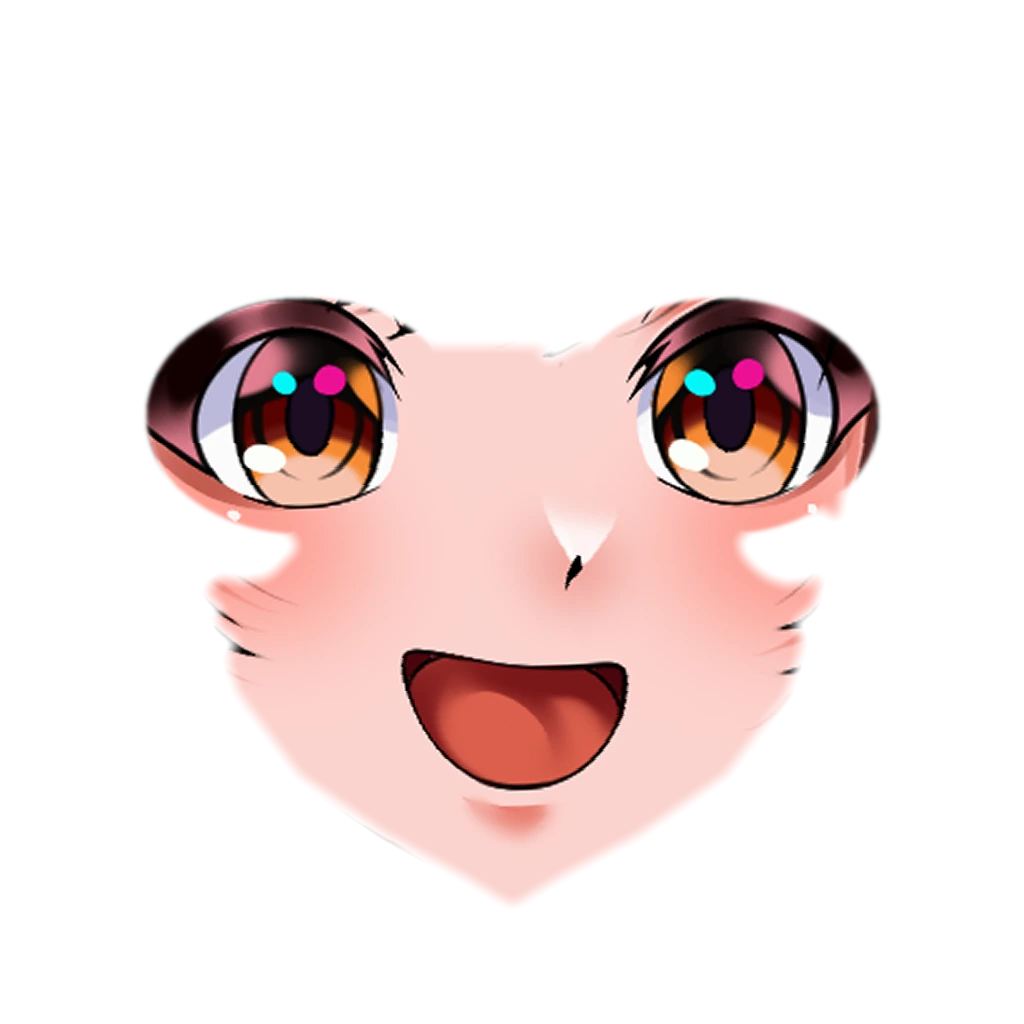
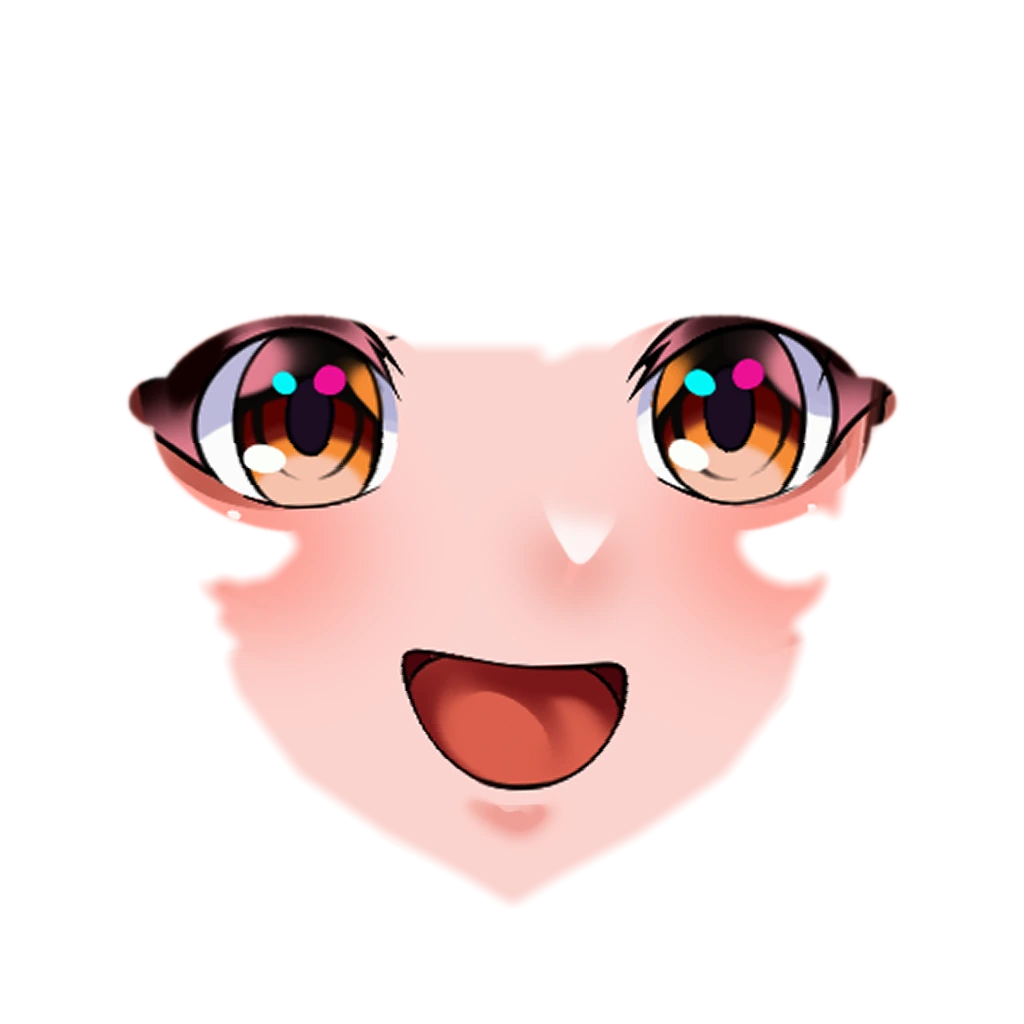
Peachi: sheet-style bangs, flatter face, neck, cleaner face art
- Bangs rebuilt as layered pointed locks (dense middle meeting between the
  eyes, side sweeps to the temples, small forehead gaps as on the sheet),
  laid out in face coordinates; tips warm toward the skin
- Face front is a superellipse, flat across the eyes, so the drawn eyes
  no longer smear when the head turns; face 4 mm wider at the eye line
- Head lifted 1.4 cm on the neck and chin brought forward: a bit of neck
  now shows above the choker
- Brows measured from the sheet for each expression, drawn on the face
  and on the see-through overlay (visible over the bangs)
- Face art: cheeks keep only smooth skin/blush (median-cleaned), the
  mouth is found as a blob, eye regions stop above the lashes
- Darker, redder hair palette with more contrast between locks; the angel
  ring is narrower, in the hair's own color and broken per strand
- Removed the plates on the headband

Claude-Session: https://claude.ai/code/session_01P9rxu2bForWsXzXEpVGezr

diff --git a/js/peachi/model.js b/js/peachi/model.js
@@ -19,8 +19,8 @@ const C = {
   skin: SKIN_ART, navel: 0xde9a92, white: 0xfbf8fd, lav: 0xece6fb, pink: 0xff8cbf, pinkDeep: 0xef5f9f,
   pinkPale: 0xffd0e4, coral: 0xf2566f, ink: 0x221f30, inkSoft: 0x2e2a42, gold: 0xebbd52, sock: 0x221f2d,
 };
-const HAIR = ['#431c15', '#5f261d', '#833226', '#b84b5a', '#e8718f', '#f59cba'].map((c) => new THREE.Color(c));
-const _hc = new THREE.Color(), _ring = new THREE.Color('#9b5a4a');
+const HAIR = ['#2e1412', '#6e312c', '#8e3f39', '#b84b5a', '#e8718f', '#f59cba'].map((c) => new THREE.Color(c));
+const _hc = new THREE.Color(), _ring = new THREE.Color('#9b5a4a'), BANG_TIP = new THREE.Color('#c26a60');
 
 /** Hair color by height (the sheet's gradient is dark brown at the crown → pink below the chest). */
 function hairColorAt(y, out, ring = 0) {
@@ -41,7 +41,10 @@ const HC = V(0, 1.485, 0.008);                 // cranium center
 const SHOULDER = V(0.118, 1.292, -0.01);
 const HIP_J = V(0.07, 0.865, 0);
 const UPPER = 0.255, FORE = 0.225, THIGH = 0.36, SHIN = 0.41;
-export const FACE_HEIGHT = 1.425;
+// The head (and everything on it) is authored at the heights below and then lifted this much on the neck,
+// so a bit of neck shows between the chin and the choker as on the sheet.
+const NECK_LIFT = 0.014;
+export const FACE_HEIGHT = 1.425 + NECK_LIFT;
 
 // ---------------------------------------------------------------- body shapes
 const TORSO = [
@@ -85,19 +88,20 @@ function jacketPoint(th, y, off, out) {
 }
 
 // Anime head built from horizontal rings (world Y), tuned to the sheet's face measured in eye spacings
-// E (0.069 m): face half-width 0.91E at the eyes, 0.76E at the cheeks, 0.63E at the mouth, 0.31E just
+// E (0.069 m): face half-width 0.96E at the eyes, 0.8E at the cheeks, 0.63E at the mouth, 0.31E just
 // below it, then a short rounded chin 1.18E under the eye line (a U/V-line jaw, not a long triangle).
 // Wf = half-width of the face (front half), Wb = half-width of the skull behind it (hidden by hair/cups),
 // zF / zB = frontmost / rearmost z of the ring.
 const HEAD_RINGS = [
-  { k: 1.3635, Wf: 0.0, Wb: 0.0, zF: 0.052, zB: 0.04 },
-  { k: 1.369, Wf: 0.009, Wb: 0.012, zF: 0.061, zB: 0.022 },
-  { k: 1.376, Wf: 0.022, Wb: 0.028, zF: 0.069, zB: -0.004 },
-  { k: 1.386, Wf: 0.0365, Wb: 0.045, zF: 0.077, zB: -0.034 },
+  { k: 1.3635, Wf: 0.0, Wb: 0.0, zF: 0.057, zB: 0.04 },
+  { k: 1.369, Wf: 0.009, Wb: 0.012, zF: 0.065, zB: 0.022 },
+  { k: 1.376, Wf: 0.022, Wb: 0.028, zF: 0.072, zB: -0.004 },
+  { k: 1.386, Wf: 0.0365, Wb: 0.045, zF: 0.079, zB: -0.034 },
   { k: 1.4, Wf: 0.047, Wb: 0.057, zF: 0.083, zB: -0.058 },
   { k: 1.41, Wf: 0.05, Wb: 0.063, zF: 0.085, zB: -0.07 },
-  { k: 1.422, Wf: 0.0535, Wb: 0.068, zF: 0.087, zB: -0.08 },
-  { k: 1.447, Wf: 0.062, Wb: 0.076, zF: 0.089, zB: -0.092 },
+  { k: 1.422, Wf: 0.055, Wb: 0.068, zF: 0.087, zB: -0.08 },
+  { k: 1.435, Wf: 0.0605, Wb: 0.072, zF: 0.088, zB: -0.086 },
+  { k: 1.447, Wf: 0.066, Wb: 0.076, zF: 0.089, zB: -0.092 },
   { k: 1.475, Wf: 0.069, Wb: 0.079, zF: 0.089, zB: -0.098 },
   { k: 1.505, Wf: 0.073, Wb: 0.079, zF: 0.086, zB: -0.098 },
   { k: 1.535, Wf: 0.069, Wb: 0.074, zF: 0.077, zB: -0.09 },
@@ -115,9 +119,12 @@ function headPoint(u, v, o) {
   const R = tableLerp(HEAD_RINGS, y, _hr);
   const s = Math.sin(th), c = Math.cos(th);
   const W = lerp(R.Wb, R.Wf, smooth(-0.35, 0.35, c));
-  const x = W * s;
-  // flat anime face plane in front, round skull behind
-  let z = c >= 0 ? R.zF * c * (1 + 0.35 * (1 - c)) : -R.zB * c;
+  // Front half: a superellipse, flat across the eyes and turning at the cheeks (a round front puts the
+  // outer eye corners on a surface facing sideways and the drawn eyes smear as the head turns).
+  // Rounder at the chin and over the crown; the skull behind stays elliptical.
+  const e = c >= 0 ? lerp(lerp(0.85, 0.55, smooth(1.366, 1.395, y)) - 0.12 * Math.exp(-(((y - 1.452) / 0.02) ** 2)), 0.85, smooth(1.5, 1.565, y)) : 1;
+  const x = W * Math.sign(s) * Math.pow(Math.abs(s), e);
+  let z = c >= 0 ? R.zF * Math.pow(c, e) : -R.zB * c;
   z += 0.006 * Math.exp(-((x / 0.0065) ** 2)) * Math.exp(-(((y - 1.428) / 0.011) ** 2)) * smooth(0.8, 1, c); // small nose
   return o.set(x, y, z + HC.z);
 }
@@ -126,6 +133,17 @@ function headAt(az, pol, off, out = V()) {
   headPoint(0.5 + az / TAU, pol / PI, out);
   _hd.copy(out).sub(HC).normalize();
   return out.addScaledVector(_hd, off);
+}
+// point on the front of the head at world height y with the given x (bangs are laid out on the face this way)
+function headAtXY(x, y, off, out = V()) {
+  const v = y >= HC.y ? Math.acos(Math.min(1, (y - HC.y) / 0.1)) / PI : 0.5 + Math.asin(Math.min(1, (HC.y - y) / (HC.y - 1.3635))) / PI;
+  let lo = -PI / 2, hi = PI / 2;
+  for (let i = 0; i < 30; i++) {
+    const m = (lo + hi) / 2;
+    headPoint(0.5 + m / TAU, v, out);
+    if (out.x < x) lo = m; else hi = m;
+  }
+  return headAt((lo + hi) / 2, v * PI, off, out);
 }
 const _o1 = V(), _o2 = V();
 function hairOutward(t, p, out) {
@@ -175,12 +193,6 @@ function buildHeadphones(add, atlas) {
   }, 12, 44, { color });
   add('solid', band(0.0, 0.012, 0.0125, C.pink));
   add('solid', band(-0.007, 0.001, 0.0095, C.lav), { outline: 0.6 });
-  // pink segment ridges on the band (the sheet's band is built from plates)
-  for (const a of [-1.2, -0.95, 0.95, 1.2]) {
-    const g = new THREE.BoxGeometry(0.02, 0.006, 0.028);
-    place(g, arc(a, 0.012, V()).toArray(), [0, 0, -a]);
-    add('solid', g, { color: C.pinkDeep, outline: 0.5 });
-  }
   for (const s of [-1, 1]) {
     // slider + yoke
     add('solid', extrude(roundRectShape(0.016, 0.03, 0.005), 0.022, 0.004), { pos: [s * 0.104, -0.002, zB], color: C.pink });
@@ -268,6 +280,7 @@ export function buildPeachi({ ghost = true } = {}) {
   const hips = joint(root, HIPS_O);
   const torso = joint(root, TORSO_O);
   const head = joint(torso, HEAD_O);
+  head.position.y += NECK_LIFT;
 
   const bin = new PartBin();
   const W = (grp, key, geo, opts = {}) => {
@@ -311,13 +324,13 @@ export function buildPeachi({ ghost = true } = {}) {
     W(head, 'hair', g, { outline: 1 });
   }
   let hairSeed = 3;
-  const hairPiece = (pts, { w, d = 0.006, amp = 0.01, phase = 0, curl = 0.3, nv = 14, nu = 6, ringY = 1.545, shape = 'bang' }) => {
+  const hairPiece = (pts, { w, d = 0.006, amp = 0.01, phase = 0, curl = 0.3, nv = 14, nu = 6, ringY = 1.545, shape = 'lock', tip = 0 }) => {
     hairSeed = (hairSeed * 16807) % 2147483647;
-    const tone = 0.92 + 0.14 * (hairSeed / 2147483647);
+    const tone = 0.86 + 0.2 * (hairSeed / 2147483647);
     const path = new THREE.CatmullRomCurve3(pts, false, 'centripetal');
-    // w is the half-width. 'front' locks stay slim beside the face and fan out over the shoulders/chest.
-    const width = shape === 'bang'
-      ? (t) => w * (0.82 + 0.3 * t) * Math.pow(1 - Math.pow(t, 5), 0.85)
+    // w is the half-width. 'point' = bang lock with a sharp tip; 'front' locks stay slim beside the face and fan out over the shoulders/chest.
+    const width = shape === 'point'
+      ? (t) => w * (0.75 + 0.25 * smooth(0, 0.3, t)) * Math.pow(1 - smooth(0.45, 1, t), 0.7)
       : shape === 'front'
         ? (t) => w * (0.24 + 0.9 * smooth(0.34, 0.66, t)) * (1 - Math.pow(t, 3.2))
         : (t) => w * (0.62 + 0.55 * Math.sin(PI * Math.min(1, t * 1.15)) ** 0.6) * (1 - Math.pow(t, 3.2));
@@ -326,42 +339,58 @@ export function buildPeachi({ ghost = true } = {}) {
       color: (u, v, p, c) => {
         const ph = u * TAU, cw = Math.abs(Math.cos(ph)), sn = Math.sin(ph);
         hairColorAt(p.y, c, 0.45 * Math.exp(-(((p.y - ringY) / 0.009) ** 2)));
-        return c.multiplyScalar(tone * (1 - 0.3 * cw * cw * cw) * (sn < 0 ? 0.78 : 1));
+        if (tip) c.lerp(BANG_TIP, tip * smooth(0.4, 1, v)); // bang tips warm up toward the skin, as painted
+        return c.multiplyScalar(tone * (1 - 0.42 * cw * cw * cw * cw) * (sn < 0 ? 0.72 : 1));
       },
       sway: (u, v) => [amp * Math.pow(v, 1.7), phase],
     });
     W(head, 'hair', g, { outline: 1 });
   };
-  // ---- bangs [azimuth°, end polar (×π), width]: heavy, cut at the brows, one lock between the eyes
-  { // under-layer so no forehead shows between the locks
+  // ---- bangs, cut like the sheet: pointed locks of uneven length from a part just off the middle.
+  // The middle ones meet between the eyes, the sides sweep out to the temples, and a little forehead
+  // (with the brows, see face.js) shows through a gap on each side.
+  { // under-layer: fills the roots so no scalp shows between the locks; short over the two gaps
+    const endAt = (deg) => 0.365 + 0.115 * Math.exp(-(((deg - 3) / 11) ** 2)) + 0.19 * smooth(52, 80, Math.abs(deg));
     const g = surface((u, v, o) => {
-      const az = lerp(-78, 78, u) * DEG;
-      headAt(az, lerp(0.16, 0.5 + 0.08 * Math.pow(Math.abs(u - 0.5) * 2, 2), v) * PI, 0.0075, o);
-    }, 16, 6, { flip: true, color: (u, v, p, c) => hairColorAt(p.y, c).multiplyScalar(0.8) });
+      const deg = lerp(-84, 84, u);
+      headAt(deg * DEG, lerp(0.16, endAt(deg), v) * PI, 0.0072, o);
+    }, 28, 6, { flip: true, color: (u, v, p, c) => hairColorAt(p.y, c).multiplyScalar(0.55) });
     W(head, 'hair', g, { outline: 0 });
   }
-  const BANGS = [[-74, 0.73, 0.013], [-61, 0.61, 0.022], [-47, 0.56, 0.034], [-34, 0.54, 0.034], [-22, 0.548, 0.034], [-10, 0.535, 0.034],
-    [2, 0.59, 0.012], [12, 0.535, 0.034], [25, 0.546, 0.034], [37, 0.536, 0.034], [49, 0.553, 0.034], [61, 0.61, 0.022], [74, 0.73, 0.013]];
-  BANGS.forEach(([deg, end, w], i) => {
-    const az = deg * DEG, off = i % 2 ? 0.0135 : 0.0115;
-    hairPiece([
-      headAt(az * 0.3, 0.05 * PI, off), headAt(az * 0.72, 0.22 * PI, off + 0.004), headAt(az * 0.94, 0.4 * PI, off + 0.005),
-      headAt(az, (end - 0.07) * PI, off + 0.001), headAt(az * 1.03, end * PI, off - 0.004),
-    ], { w, d: 0.0065, amp: 0.004, phase: i * 1.3, curl: 0.3 });
+  // [half width, offset from the skin, root [azimuth°, polar ×π], then [x, y] over the forehead]; later ones lie on top
+  const BANGS = [
+    [0.02, 0.0095, [0, 0.05], [[-0.02, 1.567], [-0.05, 1.545], [-0.068, 1.51], [-0.074, 1.478], [-0.073, 1.45]]],   // outer sweeps
+    [0.02, 0.0095, [18, 0.05], [[0.034, 1.567], [0.058, 1.545], [0.07, 1.51], [0.075, 1.478], [0.073, 1.45]]],
+    [0.018, 0.0105, [6, 0.06], [[-0.006, 1.56], [-0.028, 1.538], [-0.048, 1.508], [-0.06, 1.482], [-0.064, 1.458]]], // inner sweeps
+    [0.018, 0.0105, [14, 0.06], [[0.02, 1.56], [0.036, 1.538], [0.053, 1.508], [0.063, 1.482], [0.066, 1.458]]],
+    [0.016, 0.0115, [4, 0.07], [[-0.006, 1.555], [-0.012, 1.525], [-0.02, 1.495], [-0.029, 1.472]]],               // middle, tips fanning out
+    [0.016, 0.0115, [15, 0.07], [[0.014, 1.555], [0.019, 1.525], [0.024, 1.498], [0.03, 1.477]]],
+    [0.017, 0.012, [7, 0.07], [[-0.002, 1.555], [-0.006, 1.52], [-0.009, 1.49], [-0.013, 1.465]]],
+    [0.016, 0.012, [12, 0.07], [[0.011, 1.555], [0.012, 1.52], [0.013, 1.495], [0.015, 1.47]]],
+    [0.018, 0.0125, [9, 0.07], [[0.005, 1.555], [0.003, 1.52], [0.0, 1.49], [0.001, 1.457]]],
+    [0.006, 0.013, [0, 0.2], [[-0.022, 1.535], [-0.035, 1.505], [-0.041, 1.485], [-0.044, 1.465]]],                       // loose strands
+    [0.006, 0.0125, [-40, 0.28], [[-0.05, 1.53], [-0.06, 1.5], [-0.066, 1.47], [-0.068, 1.44]]],
+    [0.006, 0.0125, [40, 0.28], [[0.05, 1.53], [0.06, 1.5], [0.066, 1.47], [0.068, 1.44]]],
+  ];
+  BANGS.forEach(([w, off, [rDeg, rPol], path], i) => {
+    const n = path.length;
+    const pts = [headAt(rDeg * DEG, rPol * PI, off)];
+    path.forEach(([x, y], j) => pts.push(headAtXY(x, y, off + 0.002 * Math.sin(PI * (j + 1) / n) - (j === n - 1 ? 0.003 : 0))));
+    hairPiece(pts, { w, d: w < 0.008 ? 0.003 : 0.005, amp: 0.003, phase: i * 1.3, curl: 0.25, nv: 16, shape: 'point', tip: 0.55 });
   });
   // ---- front hair: locks tucked under the headphone cups that come out below them and fall
   // in front of the shoulders, over the collar and the upper sleeves (the face stays clear from the side)
   for (const s of [-1, 1]) {
     // inner lock over the chest
     hairPiece([
-      headAt(s * 52 * DEG, 0.2 * PI, 0.014), headAt(s * 62 * DEG, 0.44 * PI, 0.02), V(s * 0.071, 1.45, 0.03),
-      V(s * 0.074, 1.4, 0.028), V(s * 0.077, 1.36, 0.036), V(s * 0.084, 1.31, 0.047), V(s * 0.1, 1.265, 0.05), V(s * 0.086, 1.205, 0.058),
+      headAt(s * 52 * DEG, 0.2 * PI, 0.014), headAt(s * 62 * DEG, 0.44 * PI, 0.02), V(s * 0.077, 1.45, 0.03),
+      V(s * 0.077, 1.4, 0.028), V(s * 0.077, 1.36, 0.036), V(s * 0.084, 1.31, 0.047), V(s * 0.1, 1.265, 0.05), V(s * 0.086, 1.205, 0.058),
       V(s * 0.104, 1.15, 0.058), V(s * 0.126, 1.105, 0.052), V(s * 0.14, 1.08, 0.046),
     ], { w: 0.034, d: 0.012, amp: 0.012, phase: s * 2.1, curl: 0.25, nv: 26, shape: 'front' });
     // wide lock over the shoulder front and the upper sleeve, curling outward
     hairPiece([
-      headAt(s * 72 * DEG, 0.17 * PI, 0.013), headAt(s * 80 * DEG, 0.42 * PI, 0.024), V(s * 0.078, 1.43, 0.006),
-      V(s * 0.088, 1.37, 0.02), V(s * 0.124, 1.315, 0.042), V(s * 0.158, 1.26, 0.062), V(s * 0.16, 1.2, 0.074),
+      headAt(s * 72 * DEG, 0.17 * PI, 0.013), headAt(s * 80 * DEG, 0.42 * PI, 0.024), V(s * 0.083, 1.43, 0.006),
+      V(s * 0.089, 1.37, 0.02), V(s * 0.124, 1.315, 0.042), V(s * 0.158, 1.26, 0.062), V(s * 0.16, 1.2, 0.074),
       V(s * 0.184, 1.15, 0.078), V(s * 0.21, 1.11, 0.074), V(s * 0.234, 1.085, 0.064), V(s * 0.25, 1.07, 0.056),
     ], { w: 0.044, d: 0.015, amp: 0.016, phase: s * 3.3, curl: 0.22, nu: 8, nv: 26, shape: 'front' });
     // outer lock: behind the cup, then spilling over the shoulder in an S-wave
@@ -372,8 +401,8 @@ export function buildPeachi({ ghost = true } = {}) {
     ], { w: 0.042, d: 0.014, amp: 0.018, phase: s * 4.1, curl: 0.22, nu: 8, nv: 24, shape: 'front' });
     // a thinner wisp between them for a layered edge
     hairPiece([
-      headAt(s * 64 * DEG, 0.24 * PI, 0.015), headAt(s * 70 * DEG, 0.48 * PI, 0.022), V(s * 0.074, 1.43, 0.018),
-      V(s * 0.08, 1.37, 0.03), V(s * 0.1, 1.3, 0.05), V(s * 0.12, 1.235, 0.062), V(s * 0.118, 1.18, 0.066),
+      headAt(s * 64 * DEG, 0.24 * PI, 0.015), headAt(s * 70 * DEG, 0.48 * PI, 0.022), V(s * 0.08, 1.43, 0.018),
+      V(s * 0.082, 1.37, 0.03), V(s * 0.1, 1.3, 0.05), V(s * 0.12, 1.235, 0.062), V(s * 0.118, 1.18, 0.066),
     ], { w: 0.022, d: 0.009, amp: 0.014, phase: s * 1.2, curl: 0.25, nv: 22, shape: 'front' });
   }
   // ---- back hair: behind the cups and shoulders; long and wavy at the sides, ending at the hood in the middle.
@@ -721,7 +750,7 @@ export function buildPeachi({ ghost = true } = {}) {
   anger.position.copy(HC).sub(HEAD_O).add(V(0.068, 0.07, 0.07));
   anger.scale.setScalar(0.06); anger.visible = false; head.add(anger);
   const faceAnchor = new THREE.Object3D(); faceAnchor.name = 'faceAnchor';
-  faceAnchor.position.set(0, FACE_HEIGHT - HEAD_O.y, 0.08 - HEAD_O.z); head.add(faceAnchor);
+  faceAnchor.position.set(0, FACE_HEIGHT - NECK_LIFT - HEAD_O.y, 0.08 - HEAD_O.z); head.add(faceAnchor);
 
   const animator = createAnimator({ root, hips, torso, head, arms, legs }, { ghost, U });
   const _s = V();

diff --git a/js/peachi/face.js b/js/peachi/face.js
@@ -407,6 +407,39 @@ function requestArt() {
     img.src = new URL(`../../assets/peachi/face_${name}.webp`, import.meta.url).href;
   }
 }
+// Brows for the drawn faces. The sheet paints them over the bangs; here they go on the face and on the
+// see-through overlay. Measured on the aligned sheet faces (canvas px), her left brow, inner → outer end.
+const ART_BROWS = {
+  happy: [[647, 70], [712, 58], [790, 76], [862, 108]],
+  cry: [[640, 108], [705, 118], [775, 148], [842, 188]],
+  angry: [[636, 288], [700, 252], [765, 200], [832, 160]],
+  scream: [[660, 32], [728, 18], [800, 46], [862, 96]],
+};
+function drawArtBrows(ctx, name, scale = 1) {
+  const P = ART_BROWS[name] || ART_BROWS.happy;
+  ctx.save();
+  ctx.scale(scale, scale);
+  ctx.fillStyle = '#2b120e';
+  for (const side of [-1, 1]) {
+    const Q = P.map(([x, y]) => [CX + side * (x - CX), y]);
+    const at = (t) => bez(Q[0], Q[1], Q[2], Q[3], Math.min(1, Math.max(0, t)));
+    // tapered brush stroke, thickest a third of the way out from the inner end
+    const top = [], bot = [];
+    for (let i = 0; i <= 24; i++) {
+      const t = i / 24, [x, y] = at(t), a = at(t - 0.01), b = at(t + 0.01);
+      const dx = b[0] - a[0], dy = b[1] - a[1], l = Math.hypot(dx, dy) || 1;
+      const hw = 5.5 * Math.pow(Math.sin(Math.PI * (0.12 + 0.86 * t)), 0.7) * (1 - 0.35 * t);
+      top.push([x - dy / l * hw, y + dx / l * hw]);
+      bot.push([x + dy / l * hw, y - dx / l * hw]);
+    }
+    ctx.beginPath();
+    top.forEach((q, i) => (i ? ctx.lineTo(...q) : ctx.moveTo(...q)));
+    bot.reverse().forEach((q) => ctx.lineTo(...q));
+    ctx.closePath();
+    ctx.fill();
+  }
+  ctx.restore();
+}
 // blink on top of the drawn face: skin over the open eye, then a closed lash line
 function drawArtBlink(ctx) {
   for (const side of [-1, 1]) {
@@ -450,9 +483,11 @@ export function createFace() {
     const img = art[expression];
     if (img) {
       ctx.clearRect(0, 0, S, S); ctx.drawImage(img, 0, 0, S, S);
+      drawArtBrows(ctx, expression);
       if (blinking) drawArtBlink(ctx);
       octx.clearRect(0, 0, S / 2, S / 2);
       if (!blinking) { octx.drawImage(img, 0, 0, S / 2, S / 2); eyesOnlyMask(octx, 0.5); }
+      drawArtBrows(octx, expression, 0.5);
     } else { // until the art has loaded: the painted fallback face
       drawFace(ctx, expression, { blink: blinking });
       drawFace(octx, expression, { blink: blinking, size: S / 2, eyesOnly: true });

diff --git a/js/peachi/materials.js b/js/peachi/materials.js
@@ -179,10 +179,13 @@ export function toonMaterial(U, params = {}, flags = {}) {
           float sl = abs(fract(sx) - 0.5);
           float line = 1.0 - smoothstep(0.035, 0.035 + fw * 1.5, sl);
           diffuseColor.rgb *= 1.0 - 0.2 * line * (1.0 - smoothstep(0.15, 0.4, fw));
-          // angel ring: a glossy band that stays on the crown as the view turns (matcap-like, view-space normal)
+          // angel ring: a glossy band that stays on the crown as the view turns (matcap-like, view-space normal),
+          // in the hair's own warm color and broken per strand into jagged tips like the painted one
           vec3 nvw = normalize(normal);
-          float ringB = smoothstep(0.16, 0.26, nvw.y) * (1.0 - smoothstep(0.4, 0.52, nvw.y)) * smoothstep(0.1, 0.13, vLocalP.y) * step(0.0, nvw.z);
-          totalEmissiveRadiance += vec3(1.0, 0.84, 0.78) * ringB * (0.26 - 0.12 * line);` : ''}
+          float jag = fract(sin(floor(sx) * 12.9898 + 4.1) * 43758.5453);
+          float lo = 0.22 + 0.08 * jag, hi = lo + 0.1 + 0.07 * fract(jag * 7.13);
+          float ringB = smoothstep(lo, lo + 0.03, nvw.y) * (1.0 - smoothstep(hi, hi + 0.025, nvw.y)) * smoothstep(0.1, 0.13, vLocalP.y) * step(0.0, nvw.z);
+          totalEmissiveRadiance += (diffuseColor.rgb * 0.7 + vec3(0.04, 0.025, 0.025)) * ringB * (1.0 - 0.6 * line);` : ''}
           totalEmissiveRadiance += diffuseColor.rgb * uSelfLit;
         }`)
       .replace('#include <aomap_fragment>', `#include <aomap_fragment>

diff --git a/tools/extract_face_art.py b/tools/extract_face_art.py
@@ -33,7 +33,7 @@ ANCHORS = {
 DOT = (-0.05 * E, -0.067 * E)      # catch-light position relative to the eye center
 # half-width of the 3D face by height (keep in sync with HEAD_RINGS Wf in js/peachi/model.js)
 FACE_W = [(1.3635, 0.0), (1.369, 0.009), (1.376, 0.022), (1.386, 0.0365), (1.4, 0.047), (1.41, 0.05),
-          (1.422, 0.0535), (1.447, 0.062), (1.475, 0.069), (1.505, 0.073)]
+          (1.422, 0.055), (1.435, 0.0605), (1.447, 0.066), (1.475, 0.069), (1.505, 0.073)]
 
 
 def face_half_width(y):
@@ -67,14 +67,26 @@ def center_lower_face(img, dx_chin):
     return Image.fromarray(out)
 
 
-def build_mask(rgb):
+# how far the lashes reach above the eye center (the shocked eyes open much wider)
+EYE_TOP = {'happy': 106, 'cry': 106, 'angry': 104, 'scream': 124}
+# eyes drawn without a liner wing on one side, where a hair lock crosses the face instead: {side: max |dx|}
+EYE_OUTER = {'scream': {1: 72}}
+
+
+def build_mask(rgb, name):
     r, g, b = [rgb[..., i].astype(int) for i in range(3)]
     skin = (r > 205) & (g > 140) & (b > 120) & (r - b < 110) & (r - g < 90)
     skin = ndimage.binary_opening(skin, iterations=2)
     yy, xx = np.mgrid[0:N, 0:N]
     eyes = np.zeros((N, N), bool)
-    for cx in (512 - EYE_DX, 512 + EYE_DX):   # eye regions incl. lashes, wing and tears
-        eyes |= ((xx - cx) / 158.0) ** 2 + ((yy - (EYE_Y + 6)) / 118.0) ** 2 <= 1
+    for s in (-1, 1):   # eye regions incl. lashes, wing and tears; tight above the lashes (drawn hair there)
+        cx, cy = 512 + s * EYE_DX, EYE_Y + 10
+        ry = np.where(yy < cy, EYE_TOP[name], 112.0)
+        one = ((xx - cx) / 152.0) ** 2 + ((yy - cy) / ry) ** 2 <= 1
+        one |= ((xx - (cx + s * 142)) / 34.0) ** 2 + ((yy - (EYE_Y - 8)) / 26.0) ** 2 <= 1   # liner wing
+        if s in EYE_OUTER.get(name, {}):
+            one &= s * (xx - cx) <= EYE_OUTER[name][s]
+        eyes |= one
     face = skin | eyes
     lab, _ = ndimage.label(face)
     face = lab == lab[640, 512]
@@ -86,11 +98,42 @@ def build_mask(rgb):
     inside = np.abs(xx - 512) <= limit
     lower = face & inside & (heights < 1.447)
     upper = ((skin & inside) | eyes) & (heights >= 1.447) & (heights < 1.458)   # no filled-in hair up here
-    face = lower | upper | eyes
-    # wide feather at the cheeks/jaw so the drawn skin melts into the 3D skin; eyes stay crisp
-    m = ndimage.gaussian_filter(ndimage.binary_erosion(face, iterations=4).astype(float), 6.0)
-    m = np.maximum(np.clip((m - 0.1) / 0.8, 0, 1), ndimage.gaussian_filter(eyes.astype(float), 2.0))
-    return m
+    region = lower | upper | eyes
+    feats = eyes.copy()
+    feats |= find_mouth(r, g, b, xx, yy)
+    feats |= ((xx - 516) / 34.0) ** 2 + ((yy - 548) / 48.0) ** 2 <= 1          # nose
+    # wide feather at the outline so the drawn skin melts into the 3D skin; features stay crisp
+    outer = ndimage.gaussian_filter(ndimage.binary_erosion(region, iterations=4).astype(float), 6.0)
+    outer = np.clip((outer - 0.1) / 0.8, 0, 1)
+    return np.maximum(outer, ndimage.gaussian_filter((feats & region).astype(float), 1.5)), feats
+
+
+def find_mouth(r, g, b, xx, yy):
+    """The drawn mouth: the non-skin blob (lips, inside, teeth, outline) around the mouth position."""
+    skin = (r > 200) & (g > 145) & (b > 130) & (r - b < 110)
+    white = (np.minimum(np.minimum(r, g), b) > 215) & (np.abs(r - b) < 30)   # teeth
+    area = ((xx - 512) / 170.0) ** 2 + ((yy - 720) / 165.0) ** 2 <= 1
+    lab, n = ndimage.label((~skin | white) & area)
+    near = (((xx - 512) / 70.0) ** 2 + ((yy - 712) / 70.0) ** 2 <= 1)
+    sizes = ndimage.sum(near, lab, range(1, n + 1))
+    mouth = lab == 1 + int(np.argmax(sizes))
+    return ndimage.binary_dilation(ndimage.binary_fill_holes(mouth), iterations=4)
+
+
+def clean_skin(arr, feats):
+    """Outside the eyes/nose/mouth keep only the smooth skin shading (blush gradients): the drawn side hair
+    leaves thin dark strokes on the cheeks that look like scratches on a 3D face. A wide median removes
+    them; skin-colored neighbors fill in."""
+    r, g, b = [arr[..., i].astype(int) for i in range(3)]
+    # skin and blush are bright (r+g+b ≥ ~560 on the sheet); drawn hair shadow on the cheeks is darker
+    skin_px = (r > 236) & (g > 145) & (b > 135) & (r + g + b > 545) & (r - b < 110)
+    fill = arr.copy()
+    # replace non-skin pixels with the nearest skin pixel before the median, so strokes don't bleed in
+    idx = ndimage.distance_transform_edt(~skin_px, return_distances=False, return_indices=True)
+    fill = fill[idx[0], idx[1]]
+    smooth = ndimage.median_filter(fill, size=(15, 15, 1))
+    keep = ndimage.gaussian_filter(feats.astype(float), 2.0)[..., None]
+    return (arr * keep + smooth * (1 - keep)).round().astype(np.uint8)
 
 
 def main():
@@ -105,7 +148,8 @@ def main():
         if name == 'happy':  # the front view is turned slightly: center the chin on the 3D chin
             rgb = center_lower_face(rgb, 42)
         arr = np.array(rgb)
-        mask = build_mask(arr)
+        mask, feats = build_mask(arr, name)
+        arr = clean_skin(arr, feats)
         rgba = np.dstack([arr, (mask * 255).astype(np.uint8)])
         Image.fromarray(rgba, 'RGBA').save(os.path.join(OUT, f'face_{name}.webp'), quality=92, method=6)
         cheek = arr[640:700, 250:330].reshape(-1, 3)
